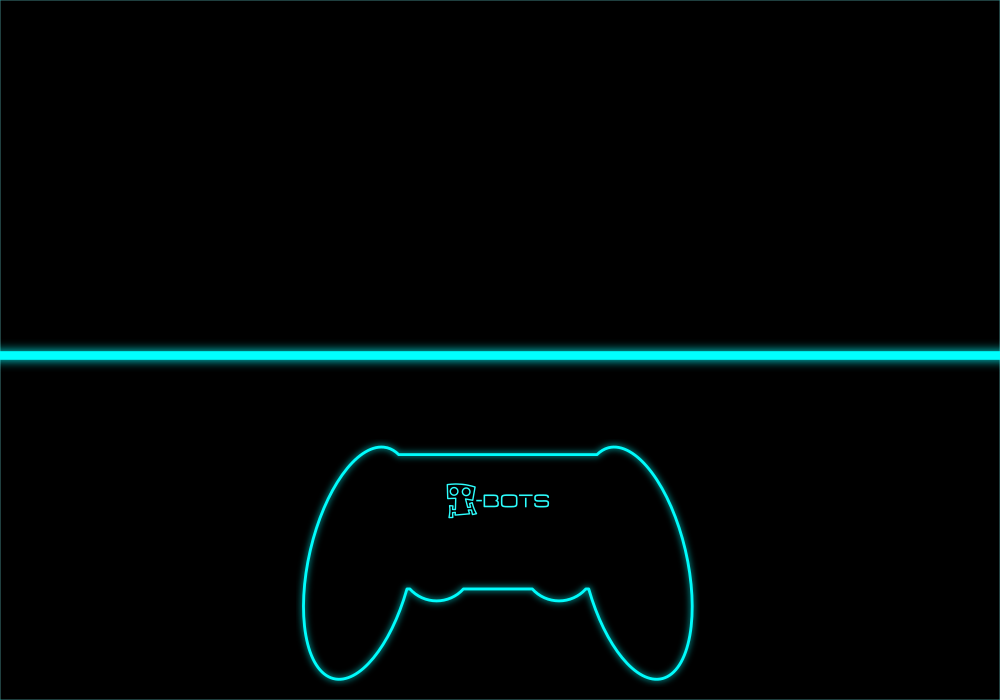
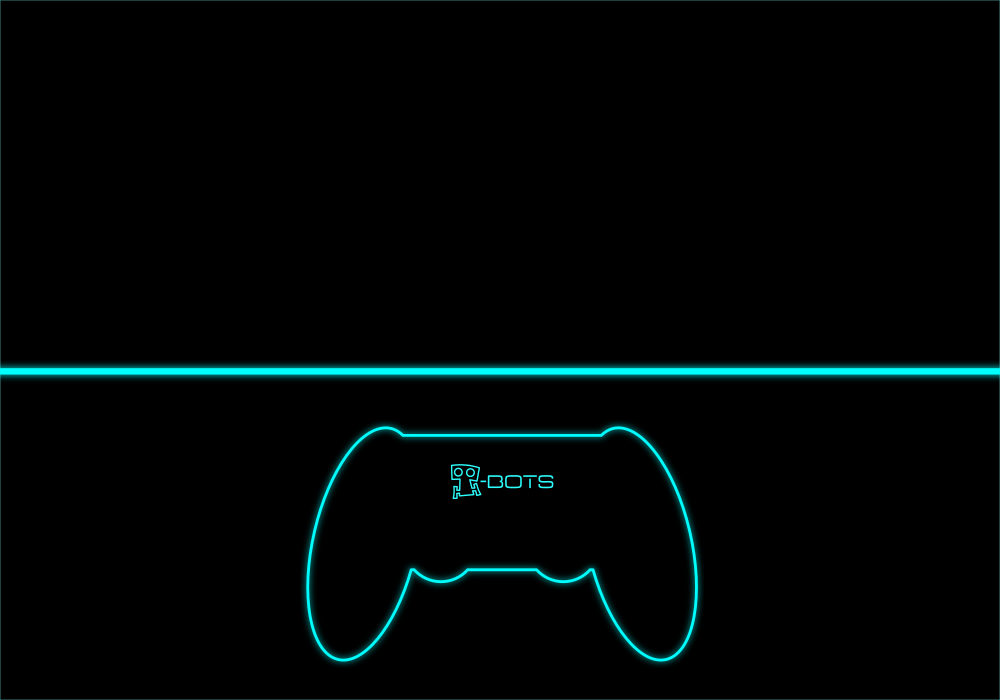
Added T-Bot Simulator

Changed region(s): [[0.279, 0.6, 0.713, 0.99], [0.0, 0.48, 1.0, 0.54]]

diff --git a/Python/Joystick/T-BotSimulator.py b/Python/Joystick/T-BotSimulator.py
@@ -41,7 +41,7 @@ speed_pid = pid.pid(s_kp, s_ki, s_kd,[-10,10],[-5,5],dt)
 angle_pid = pid.pid(a_kp, a_ki, a_kd,[6, 6],[-1,1],dt)
 
 
-origin = [500,300]
+origin = [500,319]
 tbot_drawing_offset = [-78,-10]
 xydata = np.loadtxt('T-BotSideView.dat')
 xydata = np.vstack((xydata,xydata[0,:]))+tbot_drawing_offset
@@ -49,9 +49,9 @@ xydata = np.vstack((xydata,xydata[0,:]))+tbot_drawing_offset
 xydata_rot = np.array(geom.rotxy(theta,xydata))   
 xydata_tup = tuple(map(tuple, tuple((xydata_rot+origin).astype(int))))
 
+spokes = np.array([[0,1],[0,0],[ 0.8660254, -0.5],[0,0],[-0.8660254, -0.5 ],[0,0]])*45
 
-
-trackmarksArray = np.array([[0,350],[1000,350]])
+trackmarksArray = np.array([[0,368],[1000,368]])
 track_marks_tup = tuple(map(tuple, tuple((trackmarksArray).astype(int))))
 
 speedfactor = 0.6
@@ -107,13 +107,13 @@ R2 = pygame.image.load(dirpath+'/Simple/R2.png')
 R1R2 = pygame.image.load(dirpath+'/Simple/R1R2.png')
 
 hoffset = 244
-voffset = 400
+voffset = 388
 posdpad = (102+hoffset, 75+voffset)
 posbpad = (327+hoffset, 75+voffset)
 posstickL = (165+hoffset, 130+voffset)
-posstickR = (287+hoffset, 130+voffset)
+posstickR = (289+hoffset, 130+voffset)
 posL = (108+hoffset,15+voffset)
-posR = (337+hoffset,15+voffset)
+posR = (340+hoffset,15+voffset)
 
 # Get ready to print.
 textPrint = pgt.TextPrint(pygame.Color('white'))
@@ -165,12 +165,15 @@ while not done:
         xydata_rot = np.array(geom.rotxy(theta,xydata))   
         xydata_tup = tuple(map(tuple, tuple((xydata_rot+origin).astype(int))))
         settheta = -speed_pid.output(targetvelocity,-velocity,dt)
-        noise = np.random.rand(1)*np.pi/180
+        noise = np.random.rand(1)*np.pi/180*2
+        spokes_rot = np.array(geom.rotxy(distance*1674/50,spokes))
+        spokes_tup = tuple(map(tuple, tuple((spokes_rot+origin).astype(int))))
         acc = -angle_pid.output(np.pi+settheta,(theta+noise[0]),dt)
     else:
         textPrint.abspos(screen, "Press the start button to reset.",(430,180))
         
     pygame.draw.lines(screen, WHITE, False, (xydata_tup),1)
+    pygame.draw.lines(screen, WHITE, False, (spokes_tup),1)
     pygame.draw.circle(screen, WHITE, origin, 50, 1)
     pygame.draw.lines(screen, WHITE, False, (track_marks_tup),1)
     
